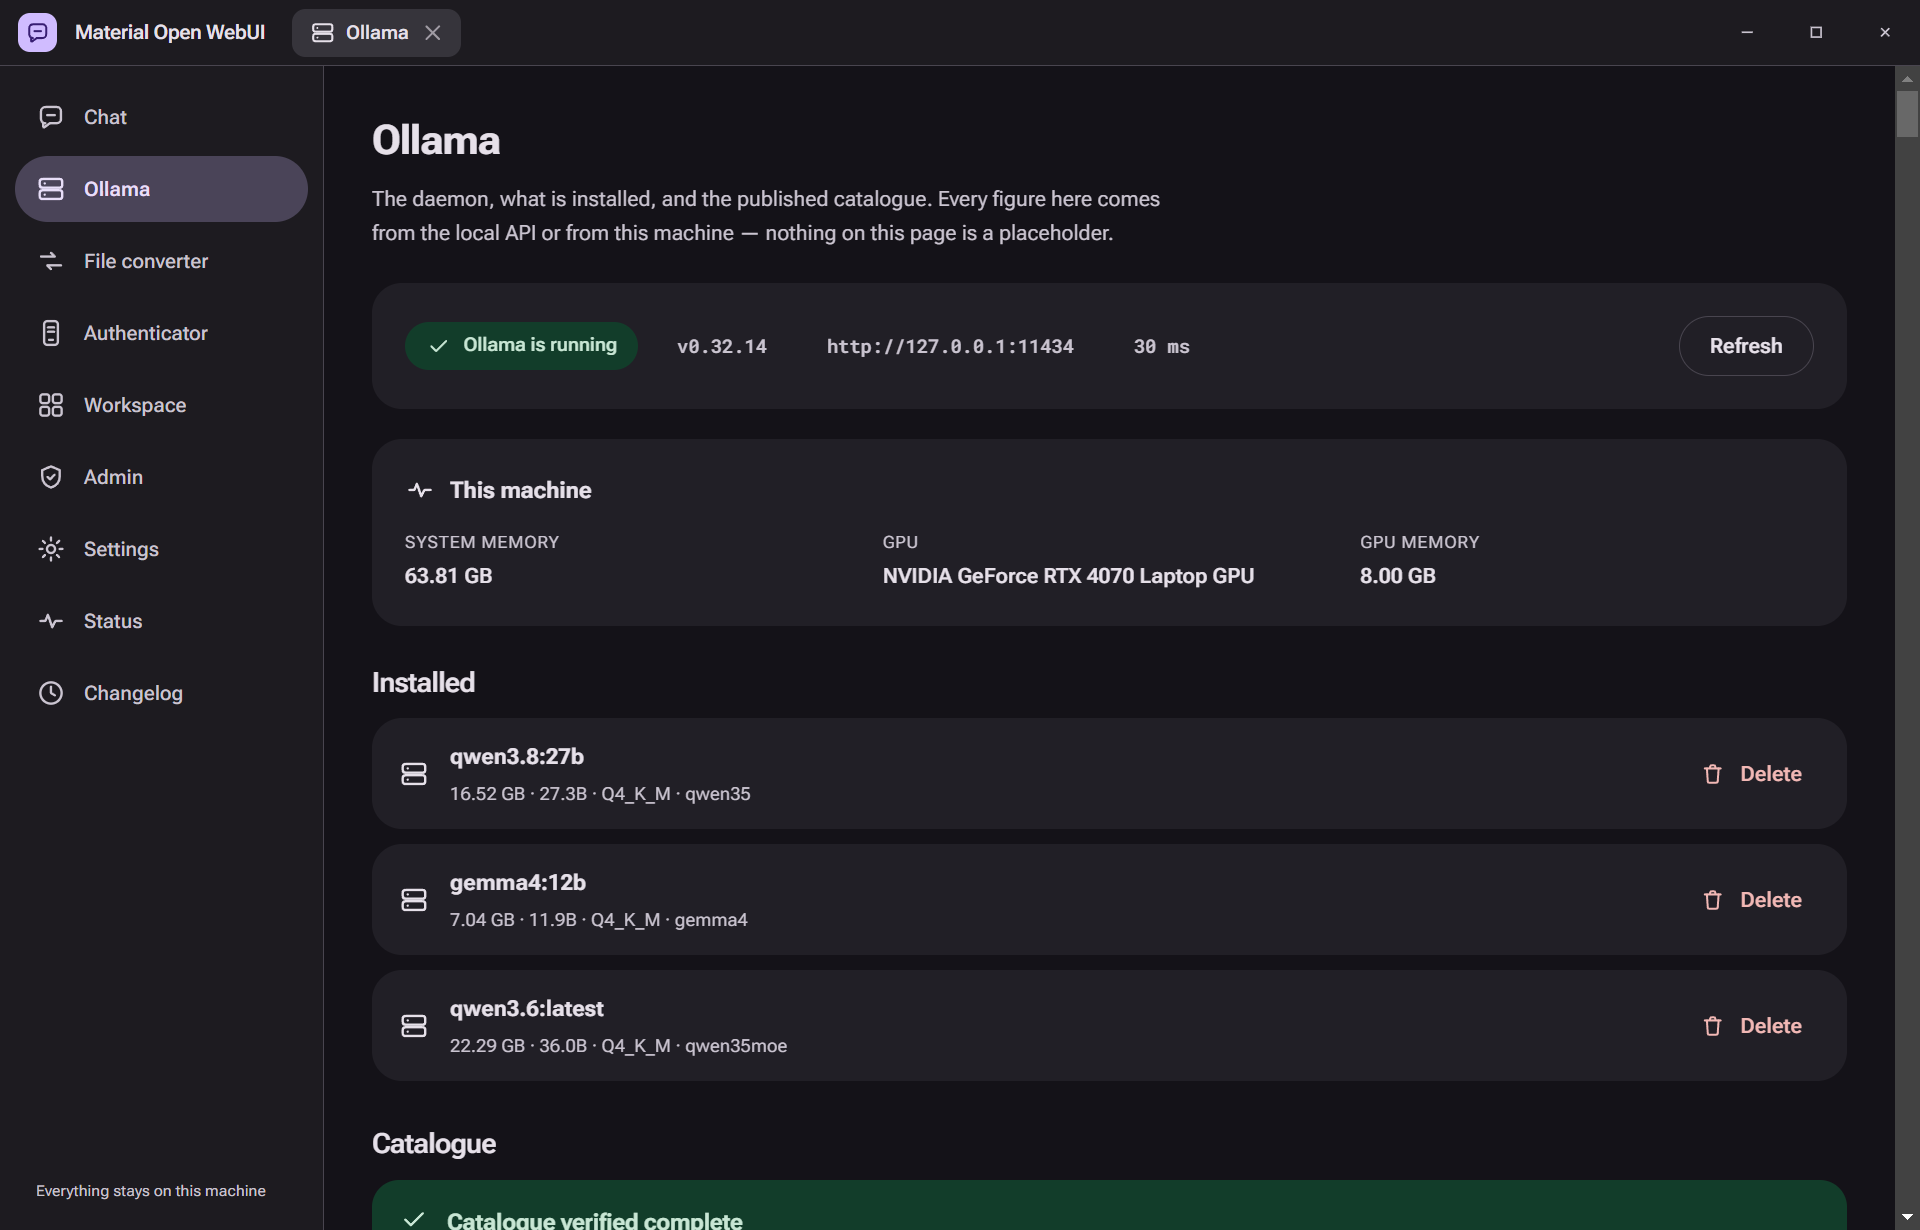
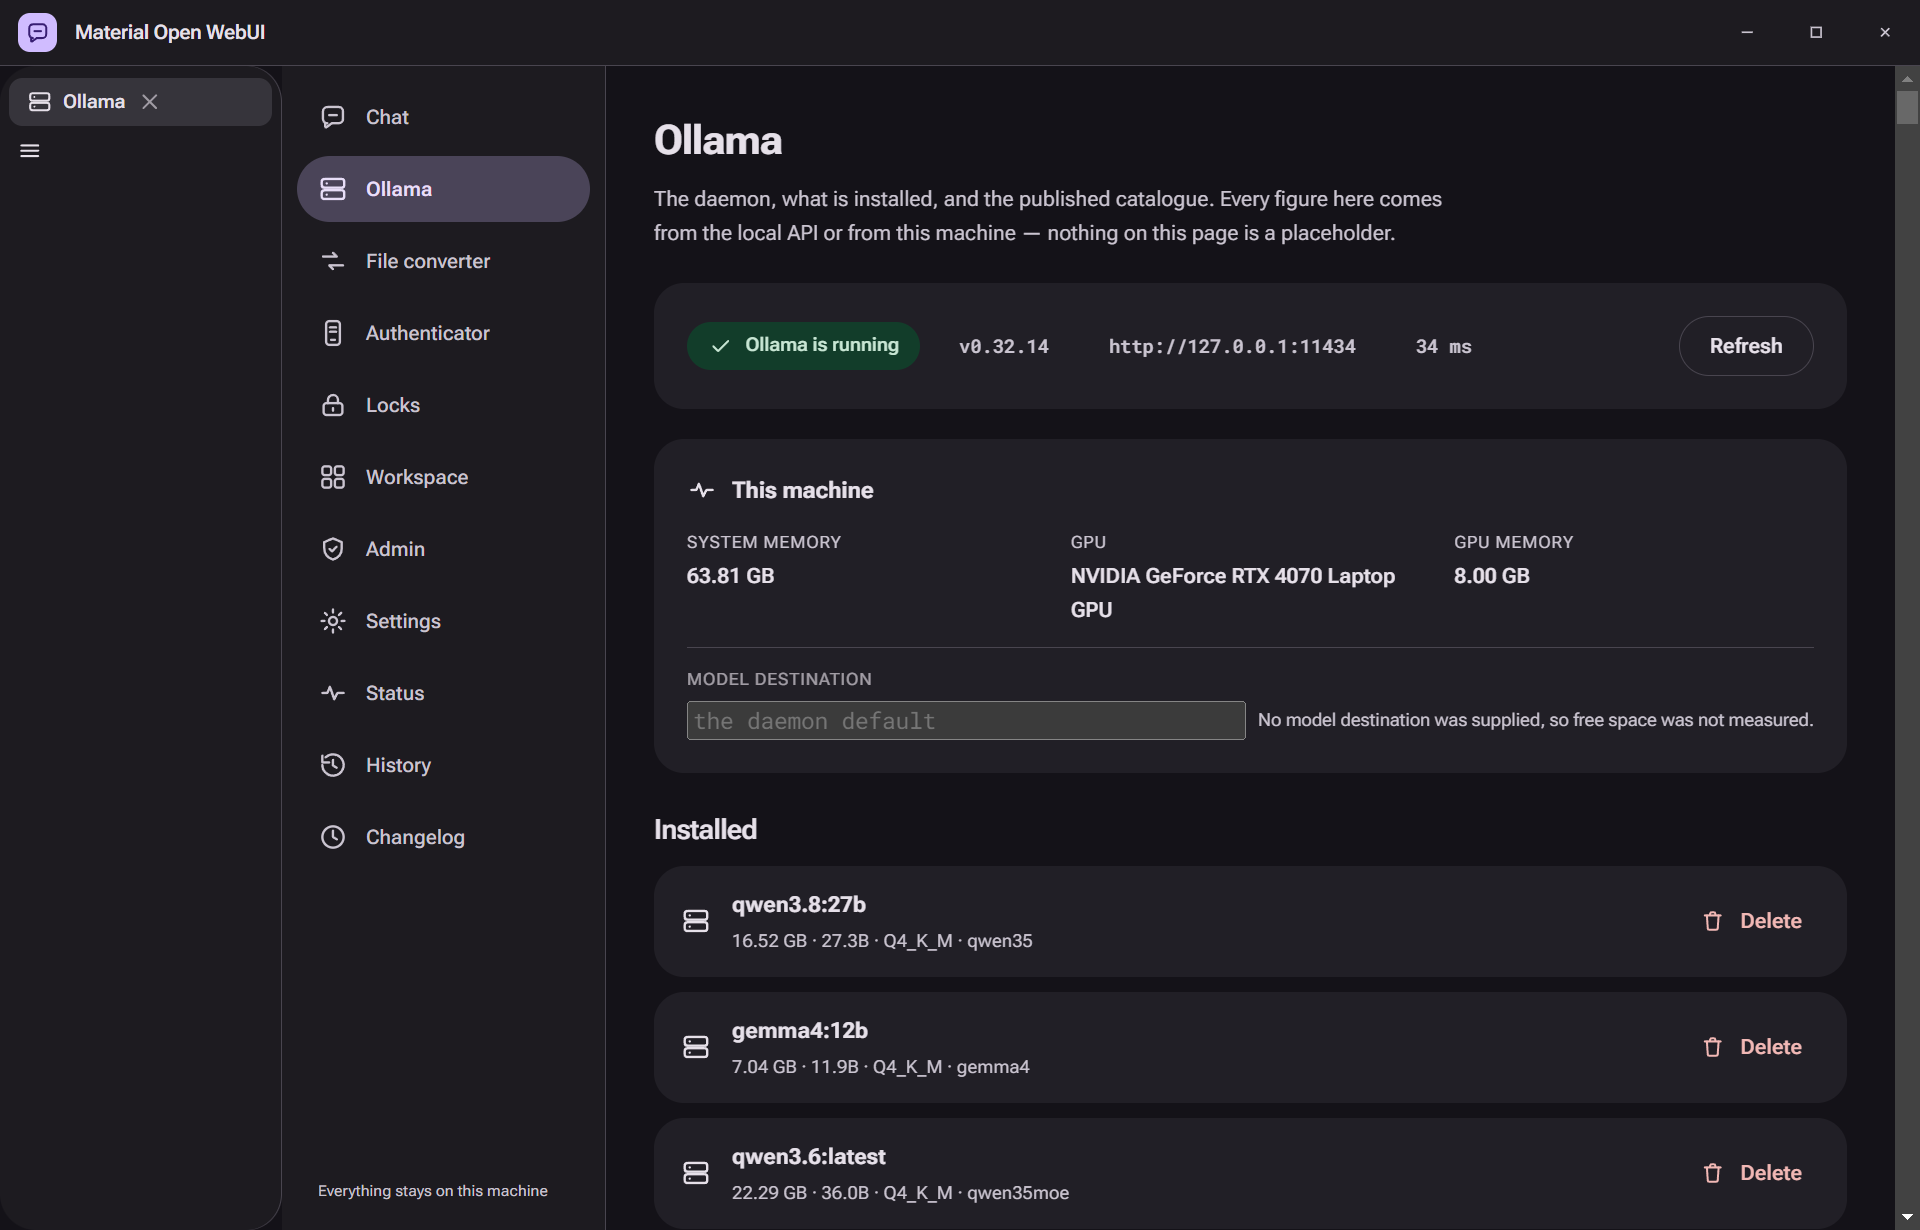
Retake the capture, and correct the README's claims to match the code
The Ollama capture showed a banner reading "Catalogue verified complete".
That sentence is gone from the code, because it was printed on every
successful fetch whether or not anything had been verified — so the image
preserved a claim the application no longer makes, and an image is the
one place a stale claim cannot be checked by reading.

Retaken from the built application against a running daemon: Ollama
0.32.14 at 34 ms, 63.81 GB of memory, an RTX 4070 Laptop GPU with 8 GB of
video memory, three installed models with their real sizes and
quantisation, the tab strip docked to the left edge as the contract says
it should be, and the new model-destination field empty — with the line
beside it saying free space was therefore not measured, rather than
reporting a figure it did not take.

The README's "what is missing" paragraph pointed at rows marked
`planned`. There are none: every row now reads `shipped` or `na` on both
surfaces. What is genuinely absent is narrower and is stated where
someone would look for it — the converter adapters disabled because
nothing is bundled to run them, and the installer that has not been
built.

張圖以前寫住「目錄已核實完整」，
但呢句而家已經冇咗，因為根本冇核實過。
留住張圖即係留住一句 code 已經唔再講嘅嘢 ——
而圖片正正係唯一你冇得用睇 code 去 check 嘅地方。

diff --git a/README.md b/README.md
@@ -111,10 +111,11 @@ first, because they were the parts that could not be checked by looking.
 
 **The Ollama page, against a running daemon.** Version and latency from
 `/api/version`; three installed models with their real sizes and quantisation
-from `/api/tags`; system memory and GPU measured through the desktop shell; the
-published catalogue verified complete.
+from `/api/tags`; system memory and GPU measured through the desktop shell. The
+model destination is empty in this capture, and the line beside it says so
+rather than reporting a free-space figure it did not measure.
 
-<img src="docs/assets/captures/app-ollama.png" width="820" alt="The Material Open WebUI Ollama page: a frameless dark Material 3 window with a destination rail, showing Ollama running at version 0.32.14 on 127.0.0.1:11434, this machine's 63.81 GB of memory and RTX 4070 GPU, and three installed models with their sizes.">
+<img src="docs/assets/captures/app-ollama.png" width="820" alt="The Material Open WebUI Ollama page: a frameless dark Material 3 window with a docked tab strip on the left and a destination rail, showing Ollama running at version 0.32.14 on 127.0.0.1:11434 with 34 ms latency, this machine's 63.81 GB of memory and RTX 4070 Laptop GPU with 8 GB of video memory, a model destination field reading the daemon default beside a note that free space was therefore not measured, and three installed models with their real sizes and quantisation.">
 
 **The authenticator, self-checked.** All eighteen RFC 6238 published vectors run
 at startup across SHA-1, SHA-256 and SHA-512, and the system clock is compared
@@ -132,9 +133,12 @@ Both were taken on an off-screen desktop, so the machine's visible session was
 never disturbed. Every capture records the commit it came from in
 [`docs/assets/captures/`](docs/assets/captures/).
 
-**What is missing:** any surface still marked `planned` in
-[`INVENTORY.md`](INVENTORY.md). Those gaps stay visible rather than being filled
-with something that has never run.
+**What is missing:** nothing that [`INVENTORY.md`](INVENTORY.md) claims. Every
+row there now reads `shipped` or `na` on both surfaces, and `na` means the
+feature does not belong on that surface rather than that it is pending. What is
+genuinely absent is stated in the rows themselves — the adapters the converter
+disables because nothing is bundled to run them, and the installer that has not
+been built. Those say so where you would look for them.
 
 </details>
 

diff --git a/docs/assets/captures/README.md b/docs/assets/captures/README.md
@@ -9,9 +9,15 @@ the surface it claims to show is worse than no capture, because it is confidentl
 wrong and the reader has no way to tell — so when a surface changes, the capture
 is retaken rather than left to age.
 
+The Ollama capture has been retaken once for exactly that reason: the older one
+showed a banner reading "Catalogue verified complete", and that claim turned out
+to be printed on every successful fetch whether or not anything had been
+verified. Leaving the image would have preserved a sentence the code no longer
+says.
+
 | File | Shows | Commit | Taken |
 | --- | --- | --- | --- |
-| `app-ollama.png` | The Ollama page against a real daemon: version and latency from `/api/version`, three installed models with their real sizes and quantisation from `/api/tags`, system memory and GPU measured through the shell, and the published catalogue verified complete. | `58d546e2d` | 2026-08-19 |
+| `app-ollama.png` | The Ollama page against a real daemon: version and 34 ms latency from `/api/version`, three installed models with their real sizes and quantisation from `/api/tags`, system memory and GPU measured through the shell, the tab strip docked to the left edge, and the model destination empty with a line saying free space was therefore not measured. | `d27a54c00` | 2026-08-19 |
 | `app-authenticator.png` | The authenticator with all 18 RFC 6238 vectors passing, the system-clock check reporting a 3-second offset, and an honest empty state. | `58d546e2d` | 2026-08-19 |
 | `desktop-shell-not-built.png` | The Electron shell running with no compiled frontend present — frameless, on the Material 3 dark surface token, naming the command that would produce one. Kept because it is the state a fresh checkout is in. | `6173dc348` | 2026-08-19 |
 
